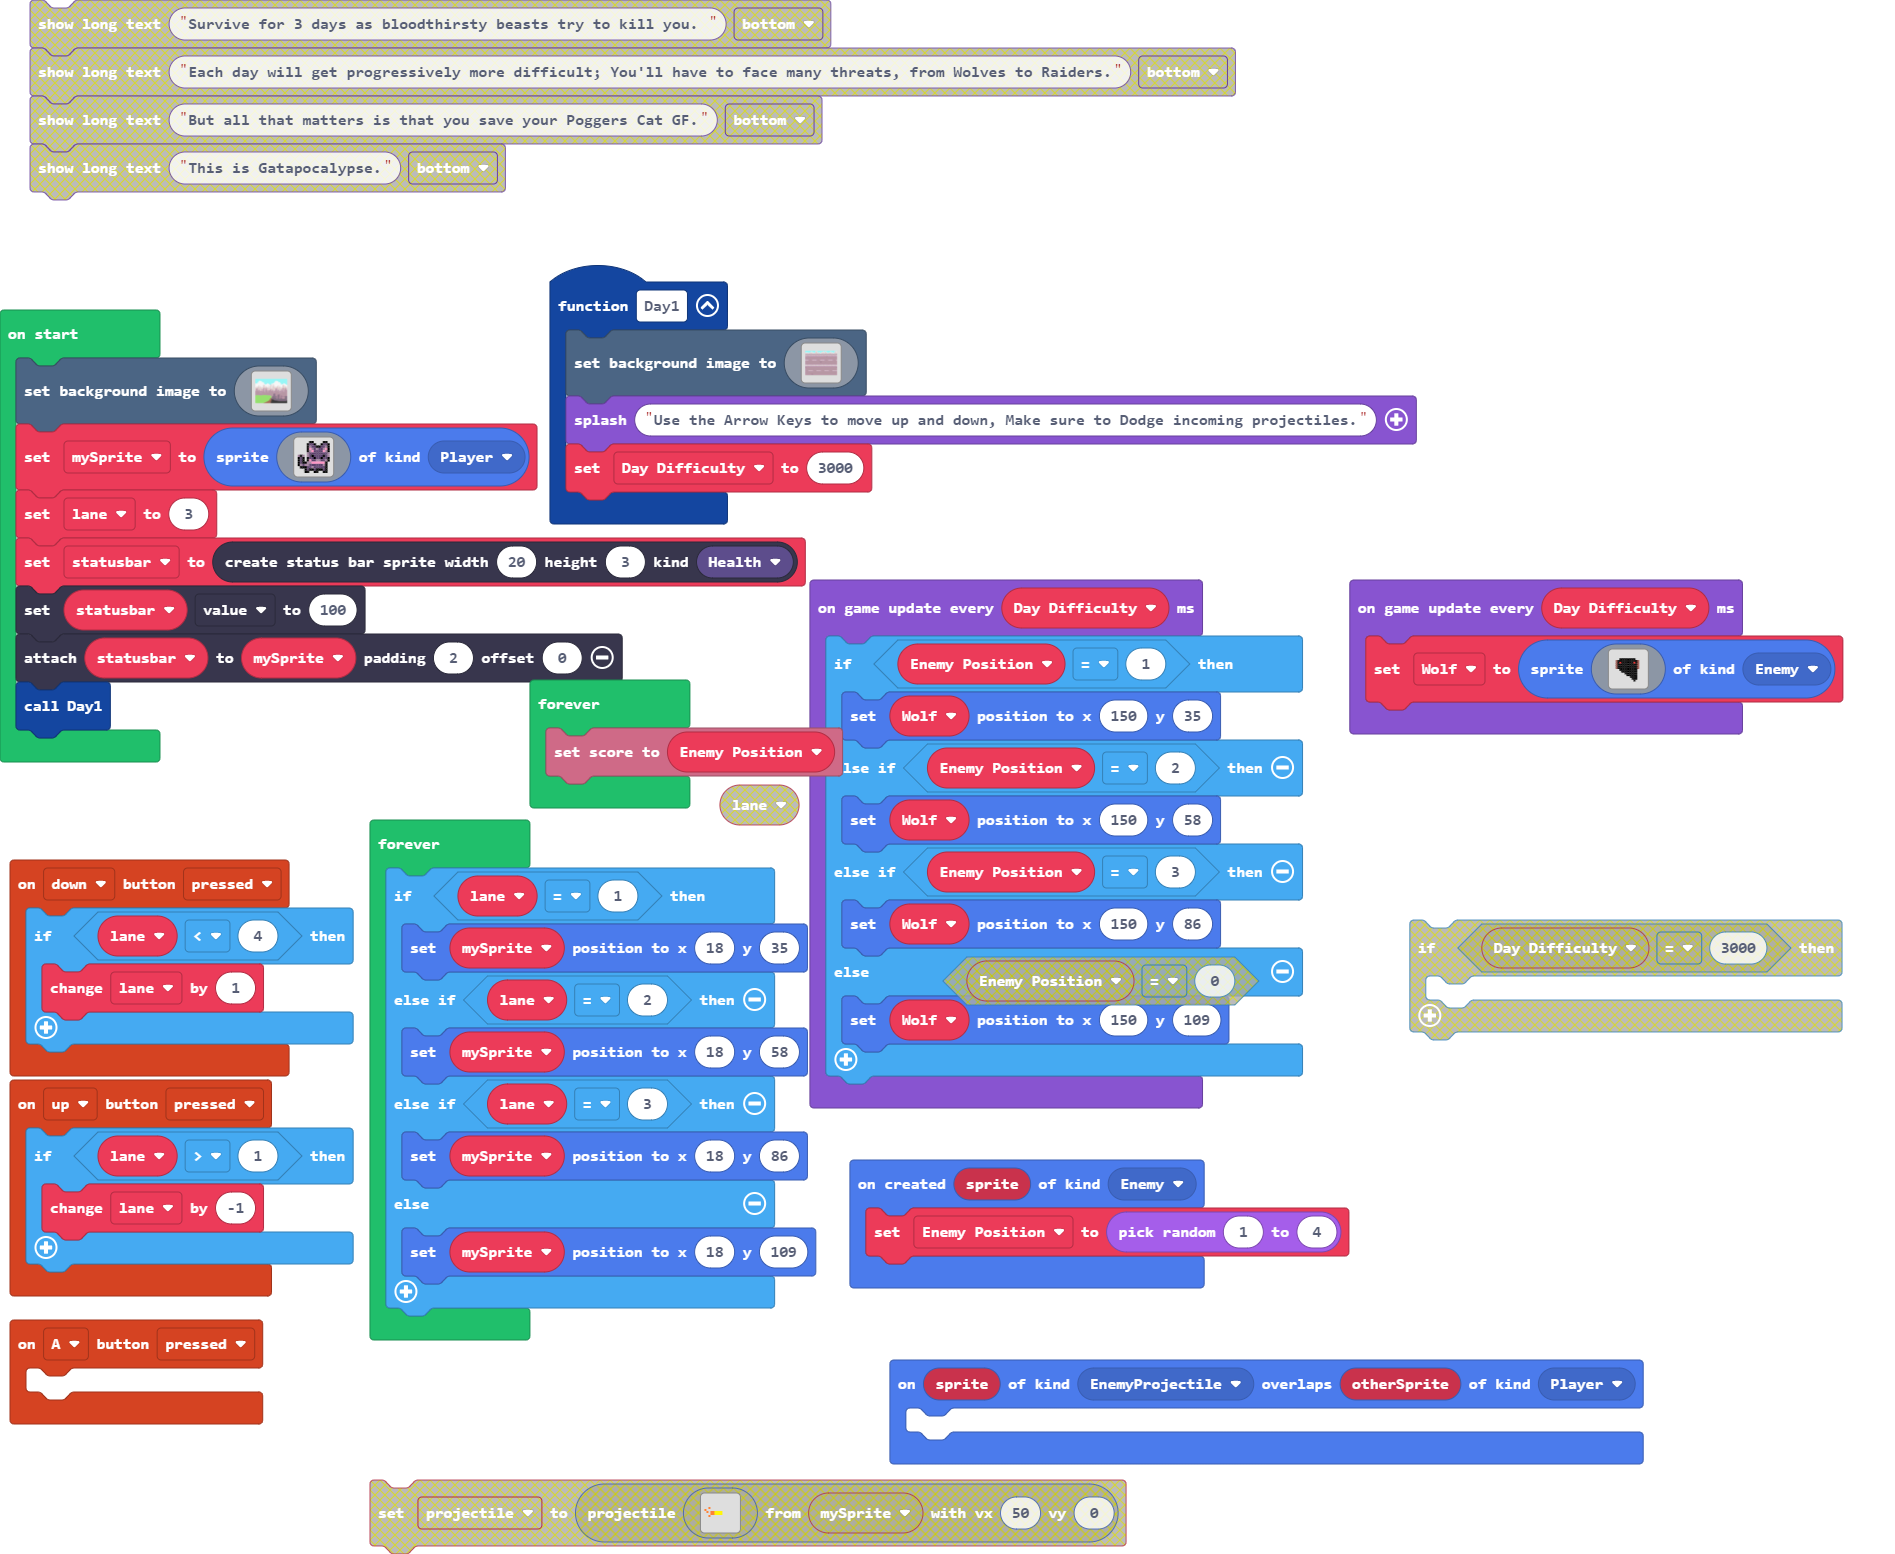
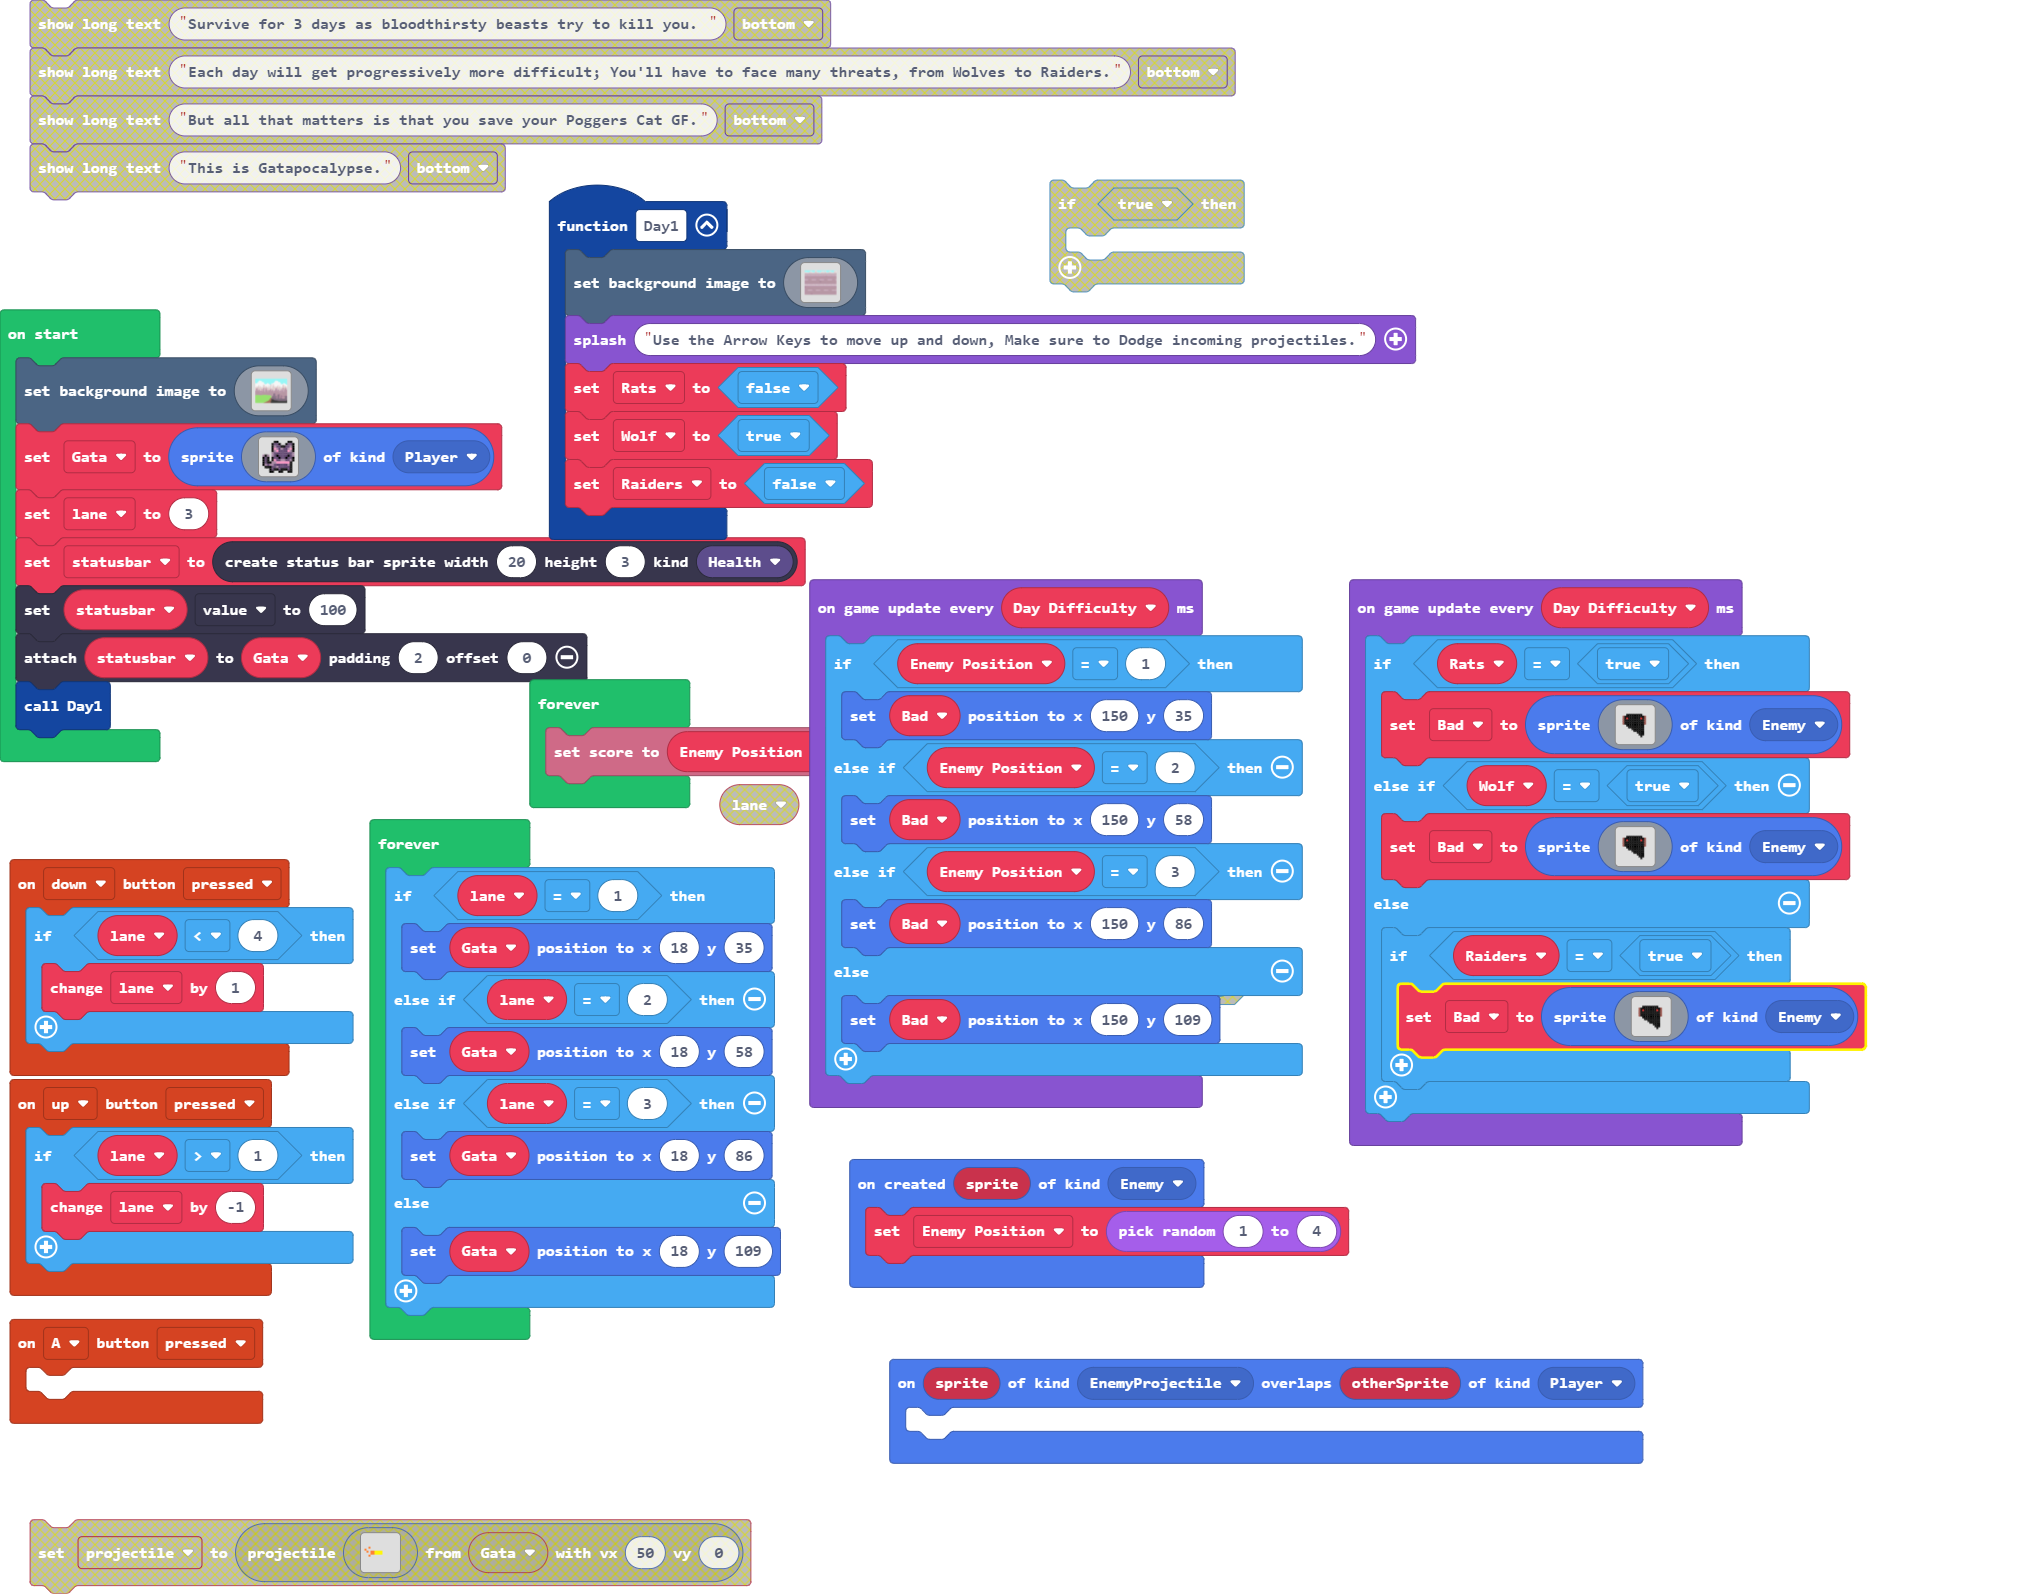
Multiple types of enemies.

diff --git a/main.ts b/main.ts
@@ -15,7 +15,9 @@ sprites.onOverlap(SpriteKind.EnemyProjectile, SpriteKind.Player, function (sprit
 function Day1 () {
     scene.setBackgroundImage(assets.image`myImage0`)
     game.splash("Use the Arrow Keys to move up and down, Make sure to Dodge incoming projectiles.")
-    Day_Difficulty = 3000
+    Rats = false
+    Wolf = true
+    Raiders = false
 }
 controller.A.onEvent(ControllerButtonEvent.Pressed, function () {
 	
@@ -25,8 +27,11 @@ controller.down.onEvent(ControllerButtonEvent.Pressed, function () {
         lane += 1
     }
 })
-let Wolf: Sprite = null
+let Bad: Sprite = null
 let Day_Difficulty = 0
+let Raiders = false
+let Wolf = false
+let Rats = false
 let Enemy_Position = 0
 let lane = 0
 scene.setBackgroundImage(img`
@@ -151,56 +156,102 @@ scene.setBackgroundImage(img`
[2 lines of base64/hex data omitted]
     `)
-let mySprite = sprites.create(assets.image`myImage`, SpriteKind.Player)
+let Gata = sprites.create(assets.image`myImage`, SpriteKind.Player)
 lane = 3
 let statusbar = statusbars.create(20, 3, StatusBarKind.Health)
 statusbar.value = 100
-statusbar.attachToSprite(mySprite, 2, 0)
+statusbar.attachToSprite(Gata, 2, 0)
 Day1()
 game.onUpdateInterval(Day_Difficulty, function () {
     if (Enemy_Position == 1) {
-        Wolf.setPosition(150, 35)
+        Bad.setPosition(150, 35)
     } else if (Enemy_Position == 2) {
-        Wolf.setPosition(150, 58)
+        Bad.setPosition(150, 58)
     } else if (Enemy_Position == 3) {
-        Wolf.setPosition(150, 86)
+        Bad.setPosition(150, 86)
     } else {
-        Wolf.setPosition(150, 109)
+        Bad.setPosition(150, 109)
     }
 })
 game.onUpdateInterval(Day_Difficulty, function () {
-    Wolf = sprites.create(img`
-        ..................
-        ..................
-        ..................
-        ....fffffffff.....
-        ..efffffffffffe...
-        ..ef2fffffff2fe...
-        ..efffffffffffe...
-        ..efffffffffffe...
-        ..efffffffffffe...
-        ....ffffffffff....
-        .....fffffffff....
-        .......fffffff....
-        ........ffffff....
-        ..........ffff....
-        ...........fff....
-        ............f.....
-        ..................
-        ..................
-        `, SpriteKind.Enemy)
+    if (Rats == true) {
+        Bad = sprites.create(img`
+            ..................
+            ..................
+            ..................
+            ....fffffffff.....
+            ..efffffffffffe...
+            ..ef2fffffff2fe...
+            ..efffffffffffe...
+            ..efffffffffffe...
+            ..efffffffffffe...
+            ....ffffffffff....
+            .....fffffffff....
+            .......fffffff....
+            ........ffffff....
+            ..........ffff....
+            ...........fff....
+            ............f.....
+            ..................
+            ..................
+            `, SpriteKind.Enemy)
+    } else if (Wolf == true) {
+        Bad = sprites.create(img`
+            ..................
+            ..................
+            ..................
+            ....fffffffff.....
+            ..efffffffffffe...
+            ..ef2fffffff2fe...
+            ..efffffffffffe...
+            ..efffffffffffe...
+            ..efffffffffffe...
+            ....ffffffffff....
+            .....fffffffff....
+            .......fffffff....
+            ........ffffff....
+            ..........ffff....
+            ...........fff....
+            ............f.....
+            ..................
+            ..................
+            `, SpriteKind.Enemy)
+    } else {
+        if (Raiders == true) {
+            Bad = sprites.create(img`
+                ..................
+                ..................
+                ..................
+                ....fffffffff.....
+                ..efffffffffffe...
+                ..ef2fffffff2fe...
+                ..efffffffffffe...
+                ..efffffffffffe...
+                ..efffffffffffe...
+                ....ffffffffff....
+                .....fffffffff....
+                .......fffffff....
+                ........ffffff....
+                ..........ffff....
+                ...........fff....
+                ............f.....
+                ..................
+                ..................
+                `, SpriteKind.Enemy)
+        }
+    }
 })
 forever(function () {
     info.setScore(Enemy_Position)
 })
 forever(function () {
     if (lane == 1) {
-        mySprite.setPosition(18, 35)
+        Gata.setPosition(18, 35)
     } else if (lane == 2) {
-        mySprite.setPosition(18, 58)
+        Gata.setPosition(18, 58)
     } else if (lane == 3) {
-        mySprite.setPosition(18, 86)
+        Gata.setPosition(18, 86)
     } else {
-        mySprite.setPosition(18, 109)
+        Gata.setPosition(18, 109)
     }
 })
